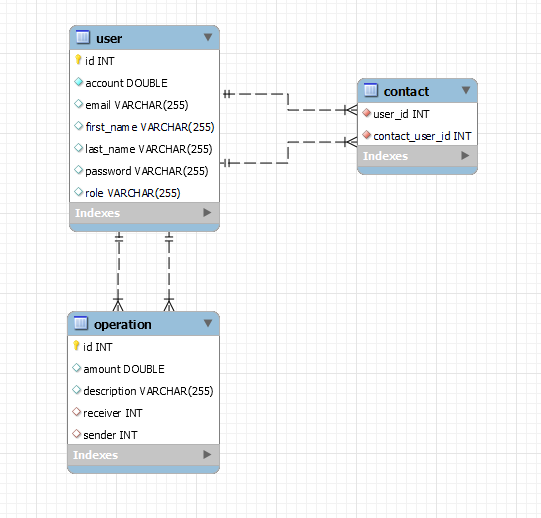
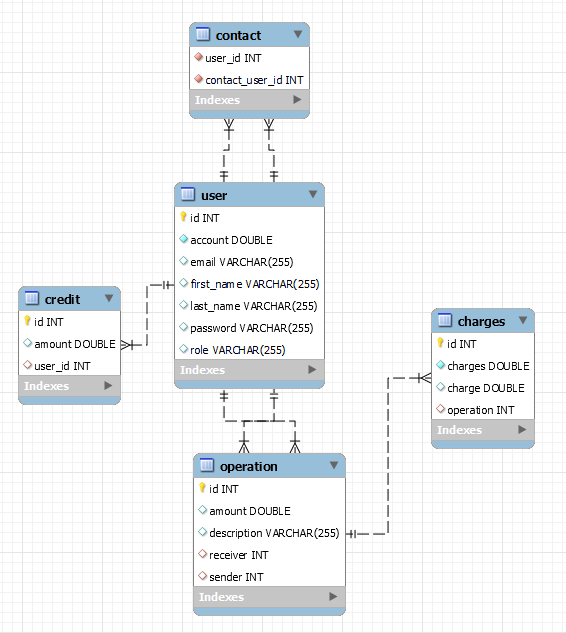
MAJ diagramms and readMe

diff --git a/src/main/resources/templates/index.html b/src/main/resources/templates/index.html
@@ -70,15 +70,16 @@
 						contacts</td>
 					<td th:text="${operation.getReceiver().getLastName()}">my
 						contacts</td>
-<!-- 				<td th:text="${operation.getAmount()}">my contacts</td> -->
-					<td th:text="${#numbers.formatDecimal(operation.getAmount(),0,2, 'POINT')}">my contacts</td>
+					<td
+						th:text="${#numbers.formatDecimal(operation.getAmount(),0,2, 'POINT')}">my
+						contacts</td>
 					<td th:text="${operation.getDescription()}">my contacts</td>
 				</tr>
 			</table>
 
 			<div>
 				<ul class="nav nav-pills">
-					<li th:each="page,status:${pages}"><a
+					<li th:each="pageOfTransactions,status:${pages}"><a
 						th:class="${status.index == currentPage ? 'btn btn-info ms-1' : 'btn btn-outline-info ms-1'}"
 						th:text="${status.index}" th:href="@{/(page=${status.index})}"></a>
 					</li>
@@ -87,14 +88,43 @@
 
 		</div>
 
+		<div>
+			<table class="table table-bordered table-striped">
+				<tr>
+					<th>AMOUNT</th>
+				</tr>
+
+				<tr th:each="credit : ${Creditlist}">
+					<td
+						th:text="${#numbers.formatDecimal(credit.getAmount(),0,2, 'POINT')}">
+						CREDITS</td>
+				</tr>
+			</table>
+
+			<div>
+				<ul class="nav nav-pills">
+					<li th:each="pageOfCredits,status:${Creditpages}"><a
+						th:class="${status.index == CreditcurrentPage ? 'btn btn-info ms-1' : 'btn btn-outline-info ms-1'}"
+						th:text="${status.index}" th:href="@{/(pageCredit=${status.index})}"></a>
+					</li>
+				</ul>
+			</div>
+
+		</div>
+
+
+		<div></div>
+
+
+
 
 		<hr>
-		
+
 		<h2 class="text-success text-center">Credit your account</h2>
-		
+
 
 		<div class="text-success"
-			 th:text="${'Your actual account: ' + #numbers.formatDecimal(logUser.getAccount(),0,2, 'POINT')  + ' €'}"> 
+			th:text="${'Your actual account: ' + #numbers.formatDecimal(logUser.getAccount(),0,2, 'POINT')  + ' €'}">
 		</div>
 
 		<!-- CREDITER SON COMPTE -->
@@ -128,7 +158,7 @@
 
 			<select class="form-select mb-2" name="email"
 				aria-label="Default select example">
-				<option  value="0">Select Contact</option>
+				<option value="0">Select Contact</option>
 				<option class="" th:each="c : ${logUser.getContact()}"
 					th:value="${c.getEmail()}" th:text="${c.getEmail()}"></option>
 
@@ -144,7 +174,7 @@
 
 
 		<!-- AJOUTER UN CONTACT-->
-		
+
 		<h2 class="text-success text-center">Add a contact</h2>
 
 		<form th:action="@{/addContact}" method="POST">
